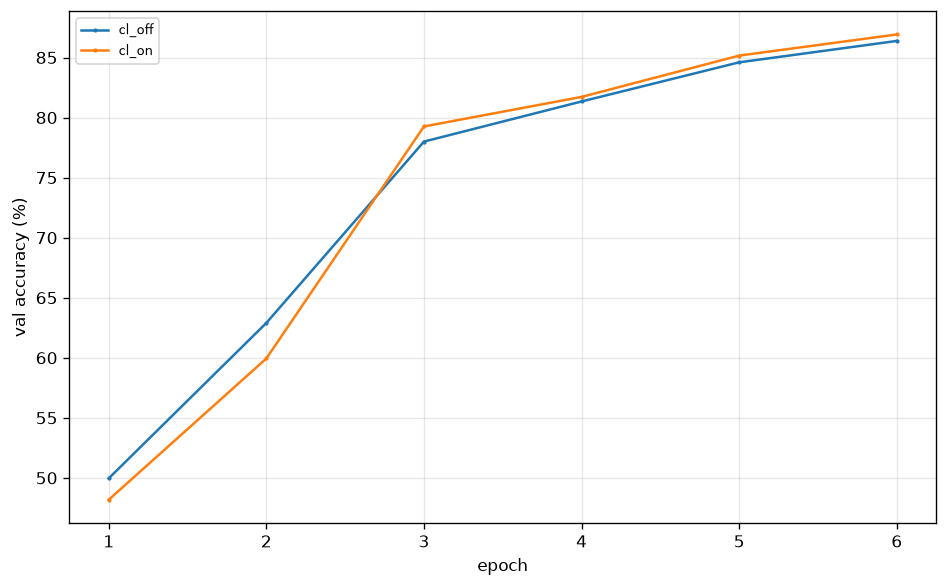
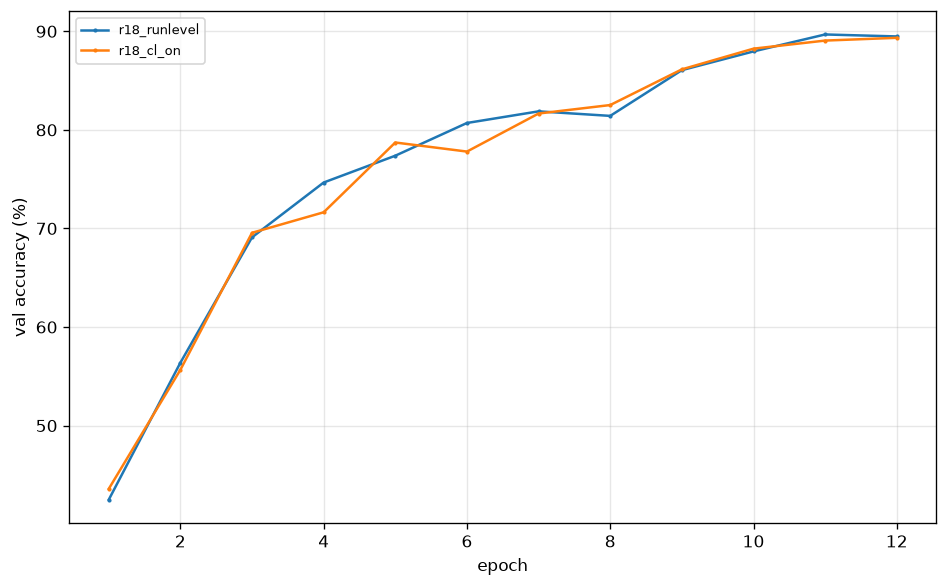
sprint-4: re-measure ResNet-18 run-level, label per-step vs run-level timings
ResNet-18 holds 13.2-14.2 s/epoch across three sessions against sprint 3's
13.6, so the PRD budgets stand: 120 epochs is ~29 min, inside M3.

Sprint 3's numbers were already run-level, so the earlier claim that
channels_last costs 2.2x rather than 2.9x -- diluted by validation and
checkpointing -- was wrong and is withdrawn. Re-run on ResNet-18, where both
arms are GPU-bound, the run-level penalty is 2.80x against the per-step
benchmark's 2.90x.

Also records that SimpleCNN's epoch time is not reproducible across sessions
(4.4 vs 6.4, identical config and commit) while ResNet-18 holds +/-4%, so
performance A/Bs belong on ResNet-18.

diff --git a/docs/EXPERIMENTS.md b/docs/EXPERIMENTS.md
@@ -23,16 +23,28 @@ Laptop GPU — record whether the machine was plugged in and on the "Best perfor
 
 **Sprint 3 conditions:** plugged in, Best-performance profile. Under sustained load the GPU held 2580 MHz at 65–68 °C with no throttle flags set; an fp16 4096³ matmul benchmarked at 28.9 TFLOPS, so the card is delivering its clocks. No run in this sprint exceeded 4 minutes, so none of these numbers carry thermal decay.
 
-### Measured epoch times
+### Measured epoch times — RUN-LEVEL
 
-Batch 128, AMP on, `channels_last` off (ADR-007). Steady-state excludes the first epoch.
+Batch 128, AMP on, `channels_last` off (ADR-007). **Run-level**: a real training run, validation and
+checkpoint writes and logging included. ADR-007's table is **per-step** and is not comparable with
+this one — see `PRD.md` §5. Steady state is the median of a run's back half, not
+everything-but-the-first-epoch (see "the ramp is not one epoch" below).
 
-| Model | s/epoch | First epoch | Notes |
-|---|---|---|---|
-| SimpleCNN | 4.4 (4.27–4.63 mean) | 65.6 s | 351 steps/epoch |
-| ResNet-18-CIFAR | 13.6 (13.5–13.7) | 79.9 s | measured over 5 epochs |
+| Model | s/epoch (steady) | Across sessions | First epoch | Measured over |
+|---|---|---|---|---|
+| SimpleCNN | 4.4 / 6.4 | ±20%, **not reproducible** | 62–73 s | 30 ep (sprint 3), 14 ep ×2 (sprint 4) |
+| ResNet-18-CIFAR | **13.8** | ±4% (13.2–14.2) | 80–86 s | 5 ep (sprint 3), 10 + 12 ep (sprint 4) |
 
 The first epoch costs an extra 60–75 s on Windows: `num_workers=4` on both the train and val loaders means eight worker processes spawn and each unpickles its own copy of the CIFAR-10 split. Fixed per run, so it matters at 30 epochs and disappears at 300.
+
+**The ramp is not one epoch.** ResNet-18 settles by epoch 3; SimpleCNN takes until roughly epoch 7 —
+the sprint-3 gate run went 65.6, 8.4, 7.0, 5.2, 4.7, 4.3, then flat at 4.3–4.4 for the remaining 24.
+Any run shorter than ~10 epochs reports a ramp-inflated number no matter how the median is taken.
+
+**SimpleCNN cannot be used as a timing instrument.** Identical config and commit measured 4.4 s/epoch
+in one session and 6.4 in the next. ResNet-18 varied ±4% over the same period. Likely GPU boost
+state — ResNet-18 saturates the card, SimpleCNN never draws enough to leave a lower power state, so
+its epoch time depends on what ran before it. Run performance A/Bs on ResNet-18.
 
 ---
 
@@ -87,8 +99,8 @@ The first epoch costs an extra 60–75 s on Windows: `num_workers=4` on both the
 
 - `random_crop_padding` uses `padding_mode="reflect"` (`build_train_transform`, sprint 1). Zero padding is the
   classic recipe and is worth testing in Sprint 5.
-- `channels_last` is off by default (ADR-007) because it measured 3× slower here. Re-measure on any other GPU
-  before assuming that still holds — it is one config flag.
+- `channels_last` is off by default (ADR-007) because it measured 2.8× slower here run-level on ResNet-18.
+  Re-measure on any other GPU before assuming that still holds — it is one config flag.
 - The val loader runs `num_workers=4` to serve ten batches of 512. Four worker spawns almost certainly cost more
   than they save, and they are half of the 60–75 s first-epoch penalty. Worth measuring against `num_workers=0`
   on the eval loaders.
@@ -99,7 +111,11 @@ The first epoch costs an extra 60–75 s on Windows: `num_workers=4` on both the
 
 **Sprint 3 — NHWC is not free.** See ADR-007. The reflex to enable `channels_last` alongside AMP is ImageNet advice; at 32×32 with CIFAR channel counts it cost 3× the wall clock on this GPU. It is worth a single measured run before adopting any "standard" performance recipe at an unusual input size.
 
-**Sprint 4 — ADR-007 re-measured end to end, and the penalty is 2.2×, not 3×.** The channels_last A/B below is the first comparison produced by `make_report.py` rather than by a hand-run benchmark, and it disagrees slightly with ADR-007's table: 14.36 vs 6.54 s/epoch, a 2.2× penalty where the sprint-3 micro-benchmark said 2.9×. The difference is what a full epoch contains that a `ms/step` loop does not — validation over 5,000 images, checkpoint writes, logging — all of which are format-independent and dilute the ratio. Both numbers are correct about their own question; the run-level one is the one that predicts wall clock, so it is the one the epoch budgets should be read against. The direction is unchanged and ADR-007 stands. Val accuracy differed by 0.54% in NHWC's favour, which at 6 epochs is well inside seed noise and is not evidence of anything.
+**Sprint 4 — a six-epoch run cannot measure seconds per epoch, and this document briefly claimed otherwise.** An earlier version of this section reported that ADR-007's 2.9× `channels_last` penalty was really 2.2× run-level, and explained the gap as validation and checkpointing diluting the ratio. Both halves were wrong, and both are withdrawn. The measurement was a 6-epoch SimpleCNN A/B whose `channels_last: false` arm was still ramping — sprint 3's 30-epoch run shows SimpleCNN going 8.4, 7.0, 5.2, 4.7, 4.3 before settling at 4.4, so *every* sample in a 6-epoch run is startup transient. The explanation was wrong too: sprint 3's numbers were already run-level, from full training runs with `eval_every: 1` and `save_every: 1`, so there was never a per-step-vs-run-level gap to explain for that model. The tooling repeated the error, because `runtime.seconds_per_epoch` excluded only the first epoch; it now takes the median of the run's back half, which reports 4.4 where the old code reported 6.5.
+
+**Sprint 4 — ADR-007 confirmed run-level, on the right model this time.** ResNet-18, 12 epochs, identical but for the flag: 13.84 s/epoch NHWC-off against 38.78 NHWC-on, a **2.80× penalty** where ADR-007's per-step benchmark predicted 2.90×. For a GPU-bound model the two kinds of number agree to within 4%, which is the useful calibration: per-step numbers are a fine proxy *when the model saturates the card*, and misleading when it does not. Val accuracy came out 0.34% in NHWC-off's favour, which at 12 epochs is noise and is not evidence either way. One incidental observation — the NHWC arm's epoch times drift upward across the run (36.2 → 40.8 s) while the NHWC-off arm stays flat, consistent with the heavier arm being the only one that runs the card hot enough to throttle. Anything measuring a sustained 45-minute recipe should expect that drift; nothing in sprints 3–4 ran long enough to see it before.
+
+**Sprint 4 — ResNet-18's budget is sound, and re-measuring it is what proved the rest wrong.** Re-measured run-level across three sessions (5, 10 and 12 epochs), ResNet-18 holds 13.2–14.2 s/epoch against sprint 3's 13.6. The 120-epoch recipe is ~29 minutes, comfortably inside M3's 45, and the sprint 5 sweep is ~4.4 h. Nothing in the budget moves. The useful discovery was the opposite of the one being looked for: **SimpleCNN's epoch time is not reproducible across sessions** — 4.4 in one, 6.4 in the next, identical config and commit — while ResNet-18 varies ±4% over the same window. The plausible mechanism is GPU boost state, since ResNet-18 saturates the card and SimpleCNN does not draw enough to leave a lower power state. The practical rule is that the cheap model is the untrustworthy instrument: measure performance on the one that loads the hardware.
 
 **Sprint 4 — the gate found a resume bug that no accuracy number would have.** Ctrl-C used to write `last.pth` from a half-finished epoch under that epoch's number, so resuming skipped it and left the LR schedule short of `min_learning_rate` (ADR-009). Nothing in a metrics file looks wrong when this happens — the run reports its full epoch count and a plausible curve. It took an explicit "kill it and resume it" step in the gate to see it, which is an argument for gates that exercise the failure paths rather than only the happy one.
 
@@ -116,11 +132,15 @@ Write these as you go, in prose, one short paragraph each. The table holds the n
 
 *Everything below this line is appended by `scripts/make_report.py`. Don't hand-edit it.*
 
-## Sprint 4 - channels_last A/B (SimpleCNN, 6 epochs)
+*(The first block appended here — a 6-epoch SimpleCNN `channels_last` A/B — was deleted rather than
+kept: both arms were inside their startup ramp and the model is not a reproducible timing
+instrument. It is replaced by the ResNet-18 comparison below. See the sprint 4 findings above.)*
+
+## Sprint 4 - channels_last A/B, run-level (ResNet-18-CIFAR, 12 epochs)
 
 | Run | Hash | channels_last | Best val acc | Best epoch | s/epoch | Min | Status |
 |---|---|---|---|---|---|---|---|
-| `runs/cl_off` | `e52f6720740b` | False | 86.38 | 6 | 6.54 | 1.8 | completed |
-| `runs/cl_on` | `b23f6d51ffa0` | True | 86.92 | 6 | 14.36 | 2.5 | completed |
+| `runs/r18_runlevel` | `408a9d82636a` | False | 89.68 | 11 | 13.84 | 4.2 | completed |
+| `runs/r18_cl_on` | `d60ad5395da4` | True | 89.34 | 12 | 38.78 | 8.8 | completed |
 
 ![val accuracy](figures/comparison.png)

diff --git a/PRD.md b/PRD.md
@@ -53,18 +53,31 @@ Explicitly out of scope for v1. Listing these prevents scope creep mid-sprint.
 - **Hardware:** RTX 4060 Laptop GPU (8 GB) + i7-14700HX. All budgets assume batch size 128 with AMP enabled. VRAM is not a constraint here — ResNet-18 on 32×32 inputs at batch 128 uses under 2 GB — but laptop thermals are, so expect ~10–15% throughput decay on runs over an hour.
 - **Python** 3.10+, **PyTorch** 2.x, CUDA available but code must degrade gracefully to CPU (slow) for tests.
 - **Dependencies:** `torch`, `torchvision` (for the *dataset download only*, plus `ToTensor`), `numpy`, `pyyaml`, `tensorboard`, `matplotlib`, `rich`. Anything else needs a note in the ADR log.
-- **Epoch budget reference — MEASURED in Sprint 3** (batch 128, AMP on, `channels_last` **off** per ADR-007, RTX 4060 Laptop, plugged in, Best-performance profile):
+- **Two kinds of timing number appear in this repo. Never compare one to the other.**
 
-  | Model | s/epoch (steady) | First epoch | 30 ep | 120 ep | 200 ep | 300 ep |
-  |---|---|---|---|---|---|---|
-  | SimpleCNN | **4.4** | 66 s | 3.3 min | 10 min | 16 min | 23 min |
-  | ResNet-18-CIFAR | **13.6** | 80 s | 8 min | **28 min** | 46 min | 69 min |
+  | Kind | Where it lives | What it measures |
+  |---|---|---|
+  | **Run-level** | this table, `EXPERIMENTS.md` § Measured epoch times, `run_manifest.json` → `runtime.seconds_per_epoch` | Wall-clock seconds per epoch of a real training run — validation, checkpoint write and logging included. **This is the only kind that predicts wall clock.** |
+  | **Per-step** | ADR-007's table | Milliseconds per optimizer step from a timing loop, with no validation, checkpointing or logging. Isolates a kernel-level effect; systematically lower. |
 
-  The first epoch costs an extra ~60–75 s on Windows: eight dataloader workers spawn and each unpickles its own copy of the CIFAR-10 split. It is a fixed cost per run, so it is 20% of a 30-epoch run and under 2% of a 300-epoch one. Every figure above includes it.
+  Every number in this section is run-level. Each table in this repo now says which kind it is.
 
-  ResNet-18 at 120 epochs is **28 min**, inside the M3 45-minute budget with room to spare. Total GPU time across Sprints 5–7 ≈ 15 h, or ~17 h allowing for the 10–15% thermal decay on runs over an hour.
+- **Epoch budget reference — MEASURED, run-level** (batch 128, AMP on, `channels_last` **off** per ADR-007, RTX 4060 Laptop, plugged in, Best-performance profile):
 
-  These replace the pre-sprint estimates (SimpleCNN 5–6 s, ResNet-18 14–18 s), which were close but assumed `channels_last` was a win — it is a 3× loss at this resolution (ADR-007).
+  | Model | s/epoch (steady) | Across sessions | First epoch | 30 ep | 120 ep | 200 ep | 300 ep |
+  |---|---|---|---|---|---|---|---|
+  | SimpleCNN | **4.4–6.4** | ±20%, not reproducible | 62–73 s | 3.3–4.3 min | 10–14 min | 16–22 min | 23–33 min |
+  | ResNet-18-CIFAR | **13.8** | ±4% (13.2–14.2) | 80–86 s | 8 min | **29 min** | 47 min | 70 min |
+
+  ResNet-18 at 120 epochs is **29 min**, inside the M3 45-minute budget with room to spare — re-measured run-level in Sprint 4 across three sessions and unchanged from the Sprint 3 figure of 13.6. Total GPU time across Sprints 5–7 ≈ 15 h, or ~17 h allowing for the 10–15% thermal decay on runs over an hour. Sprint 5's nine-run sweep is ~4.4 h.
+
+  Three things distort a naive reading of these numbers, all measured in Sprint 4:
+
+  1. **The first epoch costs an extra ~60–75 s on Windows.** Eight dataloader workers spawn and each unpickles its own copy of the CIFAR-10 split. Fixed per run, so it is 20% of a 30-epoch run and under 2% of a 300-epoch one. The multi-epoch totals above include it; the s/epoch column does not.
+  2. **Epoch times ramp for several epochs, not one.** ResNet-18 settles by epoch 3; SimpleCNN takes until roughly epoch 7 (8.4, 7.0, 5.2, 4.7, 4.3, then flat). **A run shorter than ~10 epochs cannot measure a steady state** and will report a ramp-inflated number — `runtime.seconds_per_epoch` takes the median of the run's back half, which converges correctly for long runs but cannot rescue a short one. Read it against `summary.epochs_completed`.
+  3. **SimpleCNN's steady state is not reproducible across sessions**, measuring 4.4 s/epoch in one and 6.4 in the next on identical config and commit. ResNet-18 varies only ±4%. The likely mechanism is GPU boost state: ResNet-18 saturates the card and always clocks up, while SimpleCNN never draws enough to leave a lower power state, so its epoch time depends on what ran before it. **SimpleCNN is therefore unusable as an instrument for timing comparisons** — run performance A/Bs on ResNet-18.
+
+  These replace the pre-sprint estimates (SimpleCNN 5–6 s, ResNet-18 14–18 s), which were close but assumed `channels_last` was a win — it is a ~3× loss at this resolution (ADR-007).
 
 ## 6. Architecture
 

diff --git a/README.md b/README.md
@@ -47,22 +47,29 @@ runs/{run_name}/
 ## Comparing runs
 
 ```bash
-python scripts/make_report.py --runs runs/cl_off runs/cl_on --out docs/
+python scripts/make_report.py --runs runs/r18_runlevel runs/r18_cl_on --out docs/
 ```
 
 The table carries only the hyperparameters that actually *differ* between the compared runs, plus
 the summary columns, and gets appended to `docs/EXPERIMENTS.md` alongside an overlaid val-accuracy
-curve. The first real use of it was re-measuring ADR-007 — SimpleCNN, 6 epochs, identical in every
-setting but one:
+curve. The first real use of it was confirming ADR-007 against full training runs — ResNet-18,
+12 epochs, identical in every setting but one:
 
 | Run | Hash | channels_last | Best val acc | s/epoch | Min |
 |---|---|---|---|---|---|
-| `runs/cl_off` | `e52f6720740b` | False | 86.38 | **6.54** | 1.8 |
-| `runs/cl_on` | `b23f6d51ffa0` | True | 86.92 | **14.36** | 2.5 |
+| `runs/r18_runlevel` | `408a9d82636a` | False | 89.68 | **13.84** | 4.2 |
+| `runs/r18_cl_on` | `d60ad5395da4` | True | 89.34 | **38.78** | 8.8 |
 
-NHWC costs 2.2× the wall clock at 32×32 on this GPU and buys 0.54% of val accuracy that is well
-inside seed noise at 6 epochs. `s/epoch` is the median of the steady-state epochs — the first epoch
-of every Windows run carries a fixed 60–75 s of DataLoader worker spawn and is excluded.
+NHWC costs 2.80× the wall clock at 32×32 on this GPU, against the 2.90× that ADR-007's per-step
+benchmark predicted, and buys no accuracy. Two things make that number readable, both learned the
+hard way in Sprint 4:
+
+- `s/epoch` is the median of the run's **back half**. Epoch times ramp for several epochs — about 3
+  for ResNet-18, 7 for SimpleCNN — on top of the fixed 60–75 s of DataLoader worker spawn that every
+  Windows run pays in epoch 1. **A run under ~10 epochs cannot measure a steady state at all.**
+- The A/B is on ResNet-18, not SimpleCNN, because SimpleCNN's epoch time is not reproducible across
+  sessions (4.4 s vs 6.4 s, same config, same commit) while ResNet-18 holds ±4%. Measure performance
+  on the model that actually loads the hardware — see `PRD.md` §5.
 
 Sweeps run a directory of configs back to back, continuing past a failure:
 

diff --git a/docs/ADR.md b/docs/ADR.md
@@ -110,7 +110,9 @@ The GPU itself is healthy — an fp16 4096³ matmul sustains 28.9 TFLOPS at 2580
 
 **Consequences.** Every epoch budget in `PRD.md` §5 and `EXPERIMENTS.md` is measured with NHWC off. Anyone porting this to a desktop GPU or a larger input size should re-measure before assuming the default still holds — the field stayed configurable precisely so that costs one line.
 
-**Sprint 4 addendum.** The table above is a `ms/step` micro-benchmark. Re-measured as two full runs (`runs/cl_off` vs `runs/cl_on`, SimpleCNN, 6 epochs) the penalty is 2.2×, not 2.9×: an epoch also contains validation, checkpointing and logging, all format-independent, which dilutes the ratio. The decision is unchanged; when reading against a wall-clock budget, use the run-level number.
+**Sprint 4 addendum.** The table above is **per-step** — milliseconds per optimizer step, no validation, checkpointing or logging. It must not be compared against the run-level tables in `PRD.md` §5 and `EXPERIMENTS.md`; both now say which kind they are.
+
+An earlier version of this addendum claimed the run-level penalty was 2.2× rather than 2.9%, and attributed the gap to format-independent per-epoch work diluting the ratio. **That was wrong and is withdrawn.** It rested on a 6-epoch SimpleCNN A/B in which the `channels_last: false` arm never left its startup ramp, so the denominator was inflated. SimpleCNN was also the wrong model to measure on: its epoch time is not reproducible across sessions (see `EXPERIMENTS.md`). The A/B was re-run on ResNet-18, where both arms are GPU-bound — see the run-level confirmation in `EXPERIMENTS.md` § Sprint 4.
 
 ---
 
